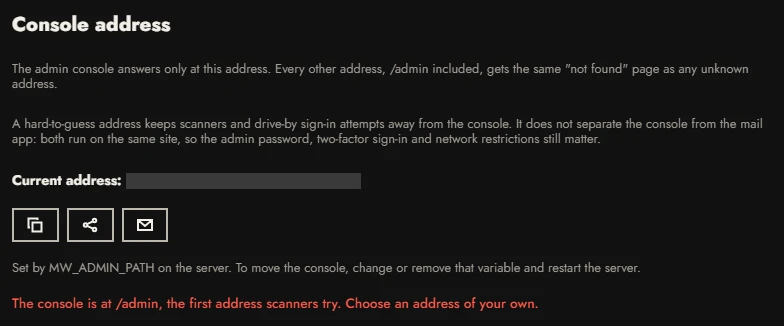
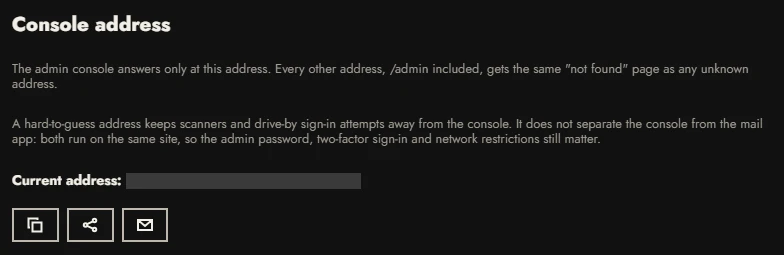
docs(start): recapture overview, first dashboard and console address
overview-mailbox shows the corrected '688 bytes'. The first dashboard is
captured without seeded domains, as after the quick install; the page
explains that the upstream checklist item stays open until a domain is
configured (admin_dashboard.rs: done only for an enabled configured
domain). The console address crop stops above the harness's pinned
/admin note, and the admin sign-in alt names the passkey button.

diff --git a/docs/getting-started/install-quick.md b/docs/getting-started/install-quick.md
@@ -79,11 +79,13 @@ bash deploy.sh deploy
 1. Open `https://mail.example.org` and sign in with the address and password of an account on your mail server. See [Sign in](./first-sign-in.md).
 2. Open the admin console address that `deploy` printed (`https://mail.example.org/<console path>/`). Sign in with the **Admin username** and **Password** from `app.env`.
 
-![The admin console sign-in form with empty Admin username and Password fields and the Sign in button.](/screenshots/deploy/admin-signin.webp){.mw-crop}
+![The admin console sign-in form with empty Admin username and Password fields, the Sign in button and Sign in with a passkey.](/screenshots/deploy/admin-signin.webp){.mw-crop}
 
 The first sign-in with these credentials creates the first admin account, with the Super admin role. Set up two-factor sign-in for it, and create named admin accounts for the people who will administer the server. See [The admin console](../admin/index.md).
 
-![The top of the admin console after signing in: the navigation on the left and the dashboard's setup checklist and account counts.](/screenshots/deploy/admin-first-dashboard.webp){.mw-crop}
+![The top of the admin console after the first sign-in: the navigation on the left, a setup checklist with three open items, and the account and session counts.](/screenshots/deploy/admin-first-dashboard.webp){.mw-crop}
+
+The dashboard's **Setup checklist** lists what is still to configure. **Give the domain a mail server, or set a default upstream** stays open until a mail domain is added and configured under **Domains**, even though `UPSTREAM_DEFAULT` already lets users sign in. Adding the domain lets you give it its own settings.
 
 ## 6. Keep it running
 

diff --git a/docs/deploy/README.md b/docs/deploy/README.md
@@ -181,7 +181,7 @@ A path you choose needs at least 12 characters after the `/`, and cannot be `/ad
 A hidden path keeps scanners and casual sign-in attempts away from the console, but it does not isolate it: the console runs on the same origin as the mail app. Keep a strong admin password, two-factor sign-in for admin accounts and, where you can, a network restriction on the path in your reverse proxy.
 :::
 
-![The Console address tab of the Security centre: the current console address (masked), copy, share and email buttons, a note that MW_ADMIN_PATH sets it, and a warning that /admin is the first address scanners try.](/screenshots/deploy/admin-console-address.webp){.mw-crop}
+![The Console address tab of the Security centre: what the console address does, the current address (masked) and buttons to copy, share or email it.](/screenshots/deploy/admin-console-address.webp){.mw-crop}
 
 ## Reverse proxy and TLS
 
